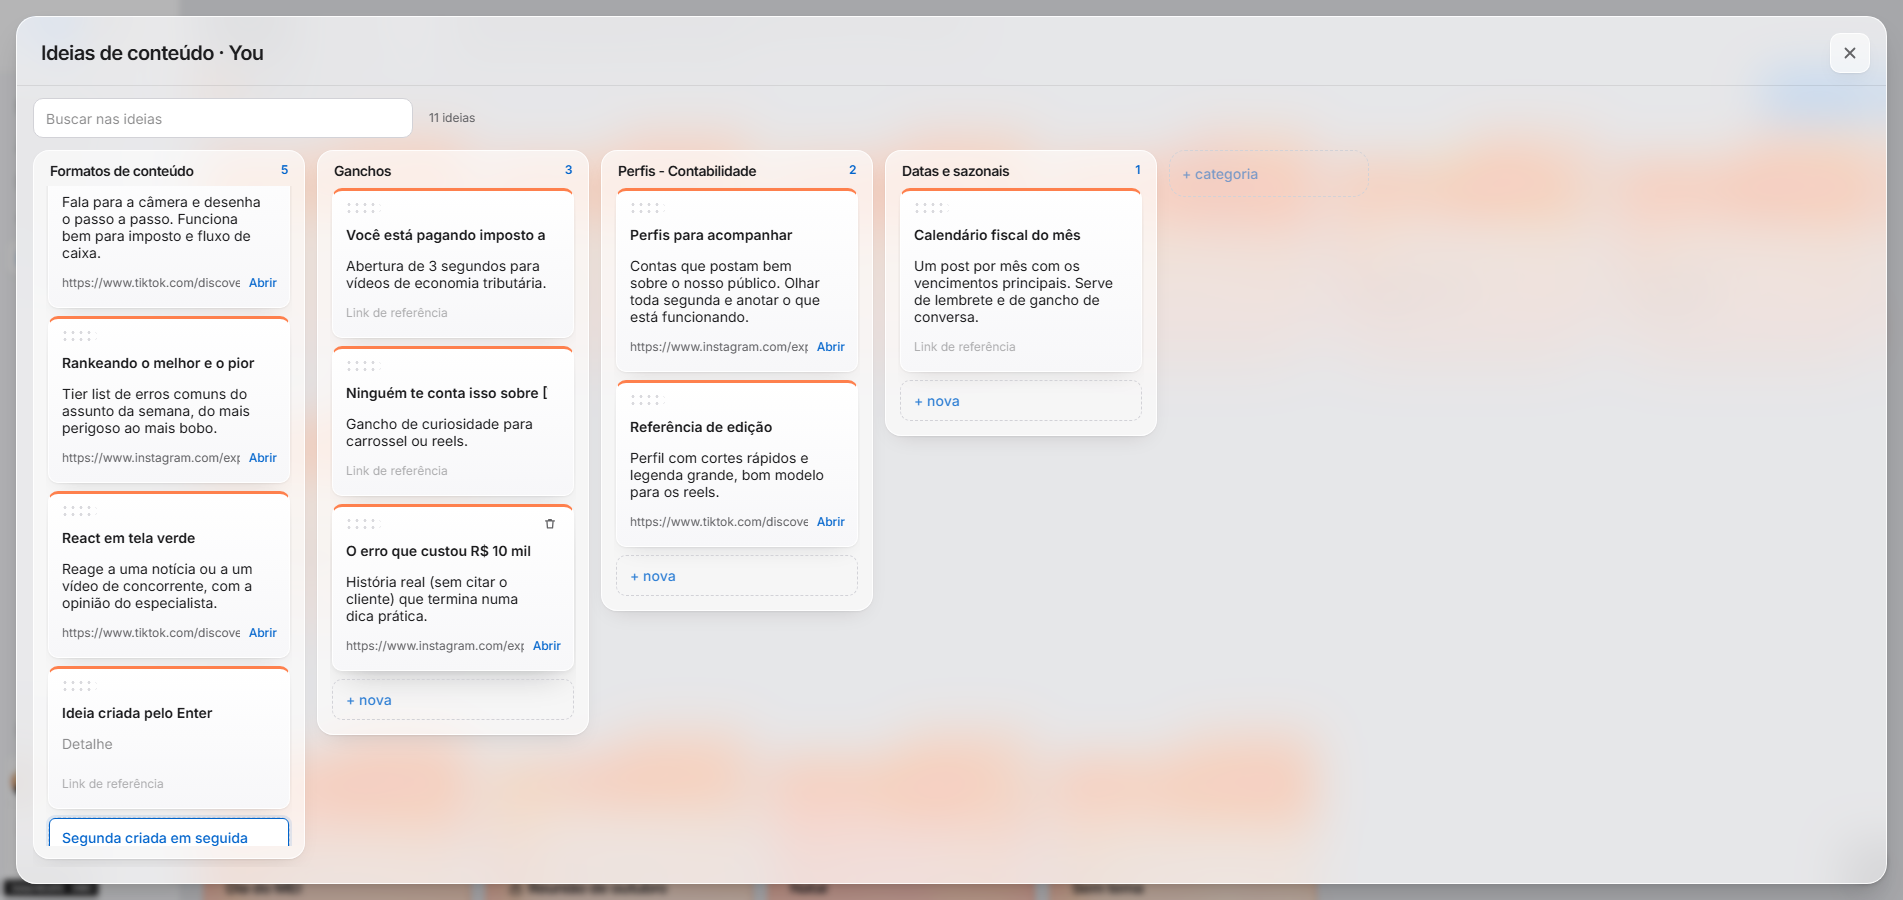
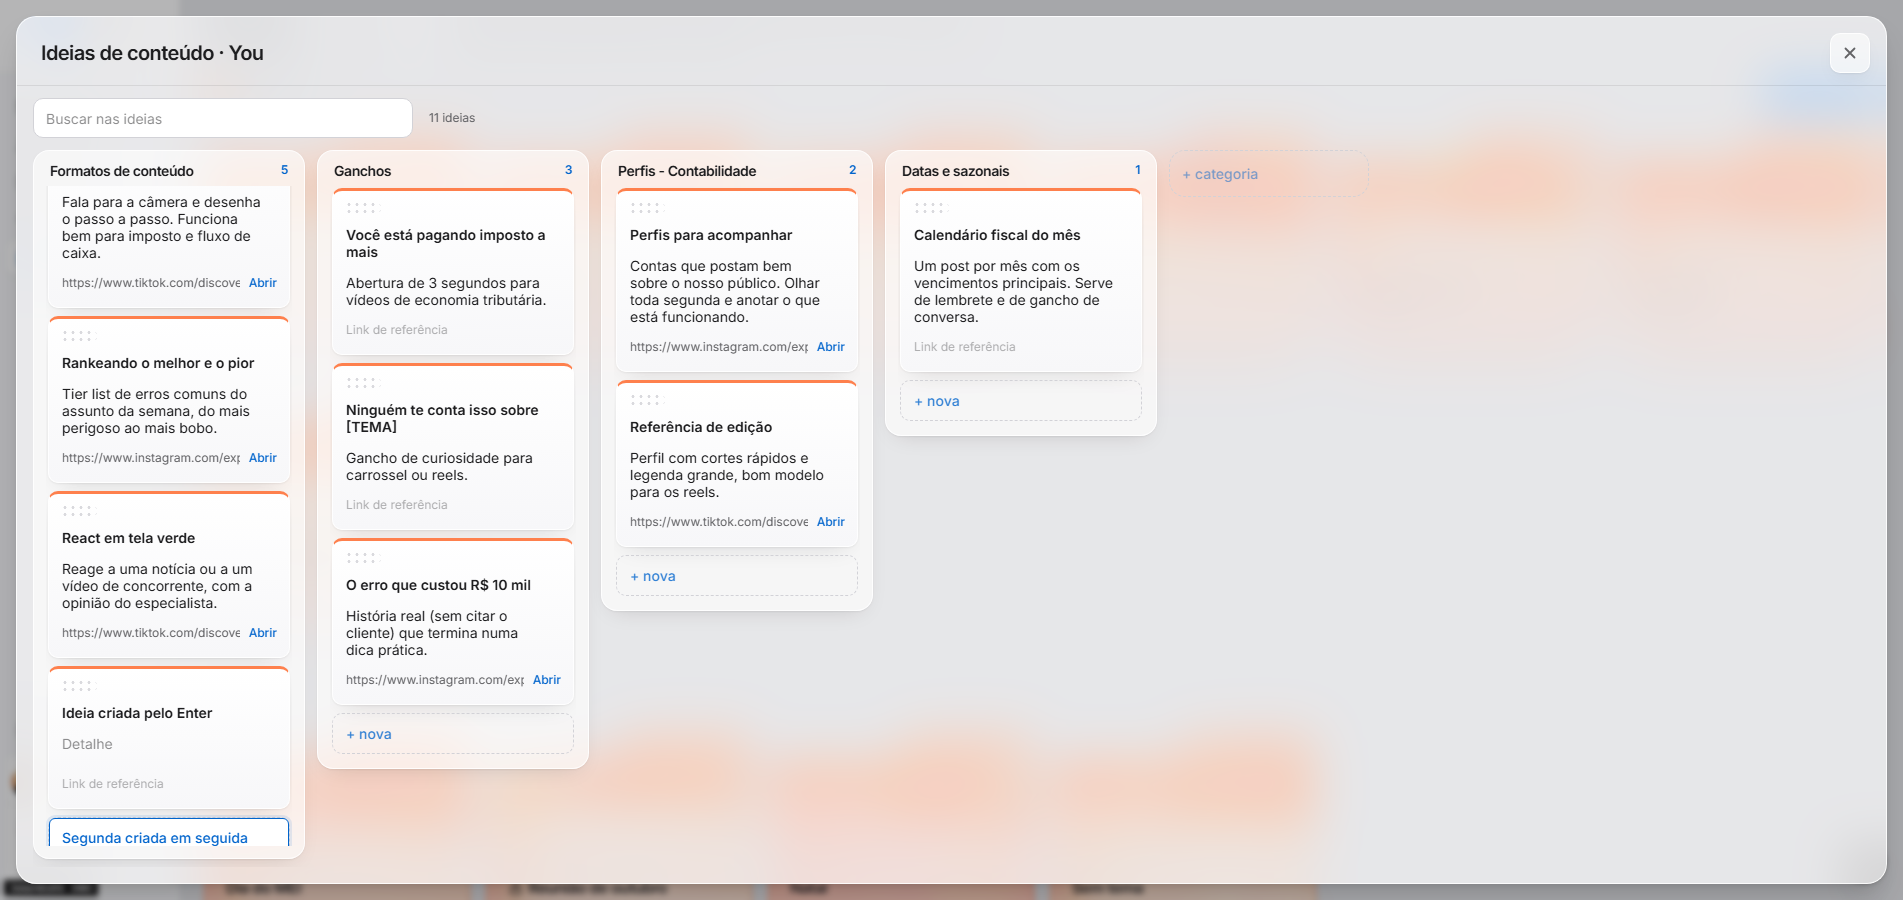
247-volta: título da folha quebra linha e cresce (textarea); foto do hover da pasta

Changed region(s): [[0.155, 0.28, 0.31, 0.8711]]

diff --git a/src/components/pastas/pastas.css b/src/components/pastas/pastas.css
@@ -298,7 +298,7 @@ canvas.gf-sheet-art[data-ready] { opacity: 1; filter: none; }
 .mural-folha input, .mural-folha textarea { font: 400 var(--app-t-texto) var(--fonte); color: var(--texto); width: 100%; min-width: 0; padding: 4px 6px; margin: 0 -6px; background: transparent; border: 1px solid transparent; border-radius: 6px; resize: none; }
 .mural-folha input:hover, .mural-folha textarea:hover { background: rgb(0 0 0 / .03); }
 .mural-folha input:focus, .mural-folha textarea:focus { outline: none; background: var(--sup); border-color: var(--azul); }
-.mural-titulo { font-weight: 600 !important; }
+.mural-titulo { font-weight: 600 !important; field-sizing: content; min-height: 1.5em; line-height: 1.35; overflow-wrap: anywhere; }
 .mural-detalhe { field-sizing: content; min-height: 2.6em; max-height: 14em; line-height: var(--texto-entrelinha); }
 .mural-link { display: flex; align-items: center; gap: var(--s-8); }
 .mural-link input { font-size: var(--app-t-rotulo) !important; color: var(--fraco) !important; }

diff --git a/src/components/pastas/MuralIdeias.tsx b/src/components/pastas/MuralIdeias.tsx
@@ -89,7 +89,7 @@ function Folha({ ideia, arrastando, aoSalvar, aoApagar, aoArrastar, aoSoltarFora
           <svg viewBox="0 0 16 16" aria-hidden="true"><path d="M3 4.5h10M6.5 4.5V3h3v1.5M4.5 4.5l.6 8h5.8l.6-8" /></svg>
         </button>
       </div>
-      <input className="mural-titulo" aria-label="Título" maxLength={120} defaultValue={ideia.titulo} onBlur={sair("titulo")} onKeyDown={(e) => e.key === "Enter" && e.currentTarget.blur()} />
+      <textarea className="mural-titulo" aria-label="Título" rows={1} maxLength={120} defaultValue={ideia.titulo} onBlur={sair("titulo")} onKeyDown={(e) => e.key === "Enter" && (e.preventDefault(), e.currentTarget.blur())} />
       <textarea className="mural-detalhe" aria-label="Detalhe" rows={2} placeholder="Detalhe" defaultValue={ideia.texto} onBlur={sair("texto")} />
       <div className="mural-link">
         <input type="url" aria-label="Link de referência" placeholder="Link de referência" defaultValue={ideia.link} onBlur={sair("link")} />
